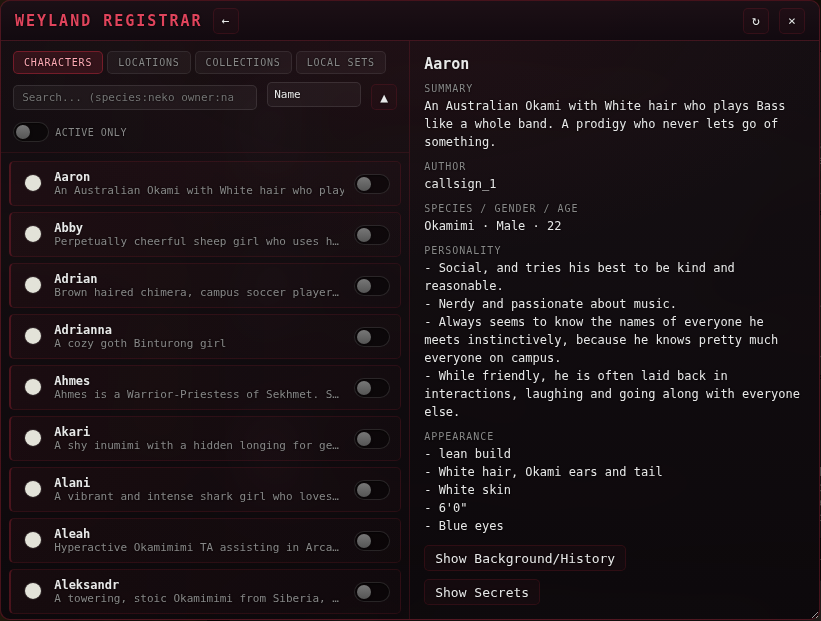
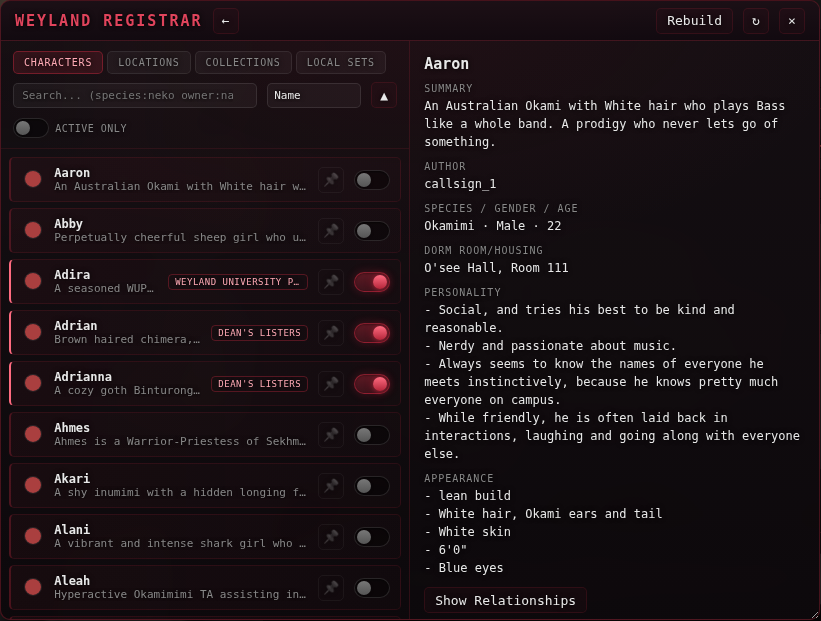
Update README and screenshot to reflect current feature set
Screenshot: recaptured browser-list-detail.png against the live
extension -- shows the titlebar Rebuild/Apply button, collection
provenance tags, pin icons, and the Dorm Room/Housing detail field,
none of which existed when the original screenshot was taken.

README: rewritten Features section to cover what actually ships today
-- pinning (forced-active only, no forced-inactive), collection
provenance tags, the staged Rebuild/Apply model, Local Sets (create/
rename/edit-members/delete, live-filterable member checklist, Select
Active Items shortcut), the Relationships/Background/Secrets reveals
and Dorm Room/Housing field, and the lorebook-ownership/backup/sandbox
safety mechanisms. Every claim was adversarially fact-checked against
the real code before landing; two overclaims from the first draft were
caught and corrected: pinning does not offer any way to deactivate a
collection-covered item (it does the opposite, forcing it active), and
the settings panel's refresh-interval "minimum 5 minutes" is only an
HTML input hint -- nothing in code actually validates or clamps it.

diff --git a/README.md b/README.md
@@ -10,19 +10,47 @@ Open the **World Info** panel and click the **Registrar** button next to the lor
 
 ## What it looks like
 
-A floating, draggable/resizable browser (full-screen on mobile) with a scrollable list on the left and a detail view on the right.
+A floating, draggable browser (desktop-only; full-screen on mobile) with a scrollable list on the left and a detail view on the right.
 
 ![The Registrar browser open, showing the character list and a character's detail view](docs/images/browser-list-detail.png)
 
 ## Features
 
-- Browse Characters, Locations, Collections, and your own Local Sets in separate tabs
-- Search (`species:neko owner:name`-style field filters) and sort by name, creation date, last updated, or author
-- Activate/deactivate individual items, or bulk-select several at once and activate/deactivate them together
-- Filter to only currently-active items
-- Click an item to see its full detail — summary, curated fields, author, and (for characters) on-demand "Show Background/History" / "Show Secrets" reveals
-- Create your own Local Sets from any mix of characters/locations, and manage their membership
-- Everything you activate is written straight into the correct managed World Info lorebooks — no manual import step
+### Browsing
+
+- Four tabs: **Characters**, **Locations**, **Collections** (curated on the Registrar website), and your own **Local Sets**
+- Field-scoped search, matching the real Registrar site's own syntax: `species:neko owner:name`, `"exact phrase"`, `owner:!bob` to exclude, `species:neko|kitsune` to match either — search reaches into every content field (personality, speech, likes/dislikes, relationships, appearance, outfits, background, secrets, and more), not just name/summary
+- Sort by Name, Created, Last Updated, or Author, in either direction — items missing the sorted field always sort to the end, and stray whitespace in a name never throws off alphabetical order
+- Filter the list down to only currently-active items
+- The catalog is cached locally after the first load, so reopening the browser doesn't require a fresh network fetch on every single open
+
+### Activating content
+
+- Activate/deactivate individual items, or bulk-select several and activate/deactivate them together
+- **Pin** (📌) an item to force it active even if a collection covering it later gets deactivated — the only way to turn a pinned item off is to unpin it
+- An item made active *by* a collection shows a tag naming which collection(s) are responsible — the only way to deactivate it is to deactivate that collection (pinning it instead locks it active regardless of the collection's state, so it isn't a way to turn one off)
+- Toggling anything doesn't touch your real lorebooks right away — changes are staged. A **Rebuild**/**Apply** button in the titlebar glows once there are unapplied changes; click it to write them into the actual World Info book. With nothing pending, the same button does a full from-scratch rebuild — handy as a manual repair/parity check.
+
+### Detail view
+
+- Summary, curated fields, author, and (for characters) a Dorm Room/Housing line
+- On-demand reveals for a character's Relationships, Background, and Secrets
+
+### Local Sets
+
+- Create your own named set from any mix of characters/locations, with a live-filterable member checklist (search + a Character/Location category filter)
+- When creating a new set, a **Select Active Items** shortcut bulk-adds everything currently active
+- Rename a set or edit its membership at any time; deleting one cleans up fully, no leftovers
+
+### Safety
+
+- Every lorebook this extension manages carries a visible, disabled marker entry warning that it's managed by Weyland-Registrar and that manual edits will be overwritten on the next sync
+- If a lorebook with the same name already existed with real content, it's automatically backed up under a new name before the extension takes it over — nothing is silently lost
+- Content fetched from the Registrar runs in a sandboxed iframe with no access to your SillyTavern session, cookies, or local storage
+
+### Settings
+
+Configurable from SillyTavern's native Extensions settings panel: a custom Registrar Base URL (if you're pointing at a different catalog server) and a Refresh Interval in minutes controlling how often the extension checks for new/updated content.
 
 ## How to Install
 
